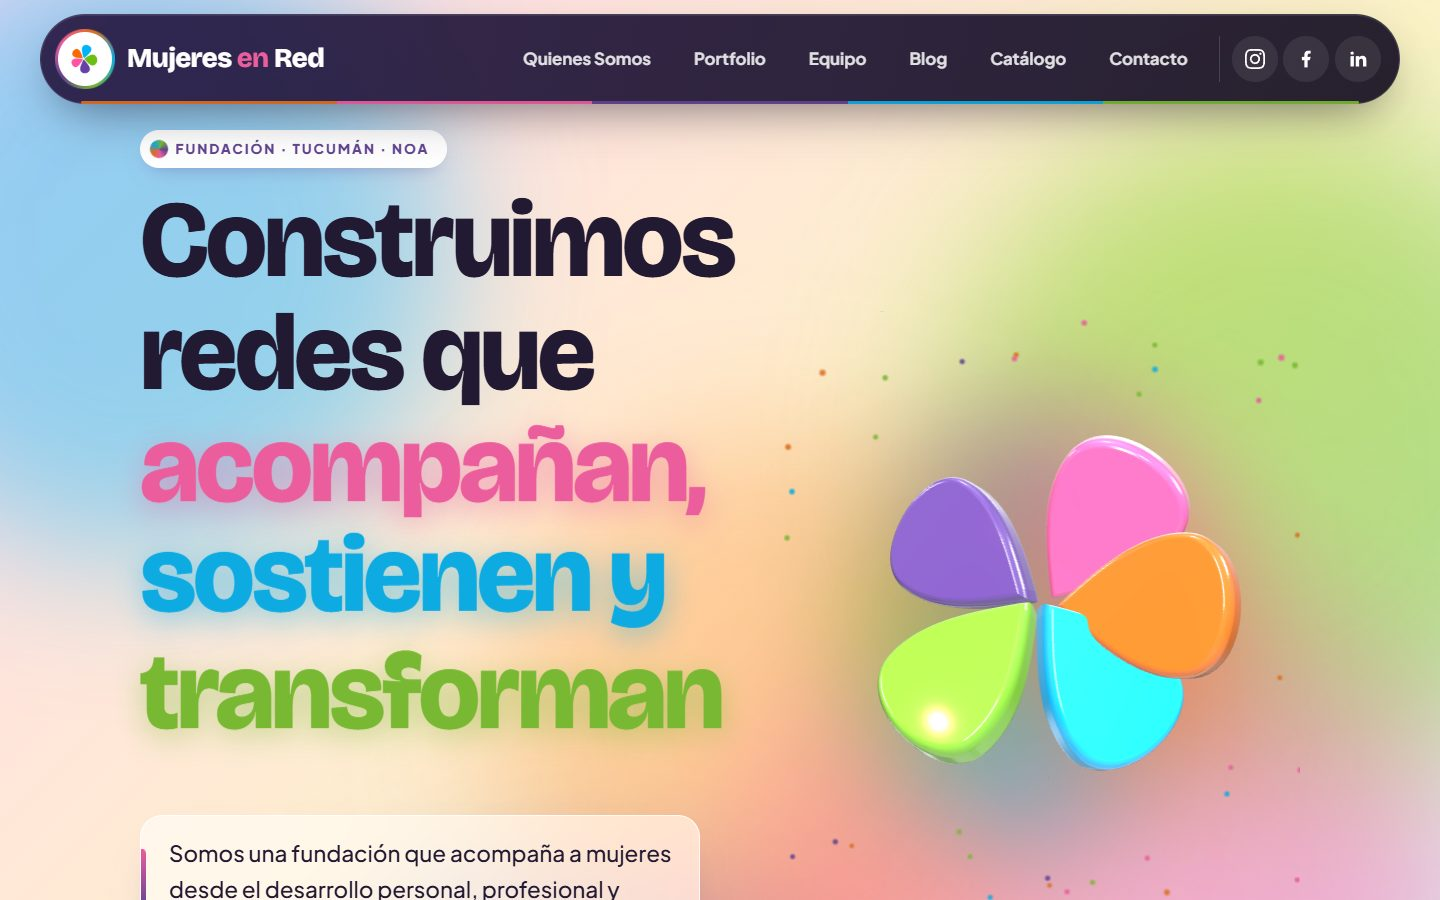
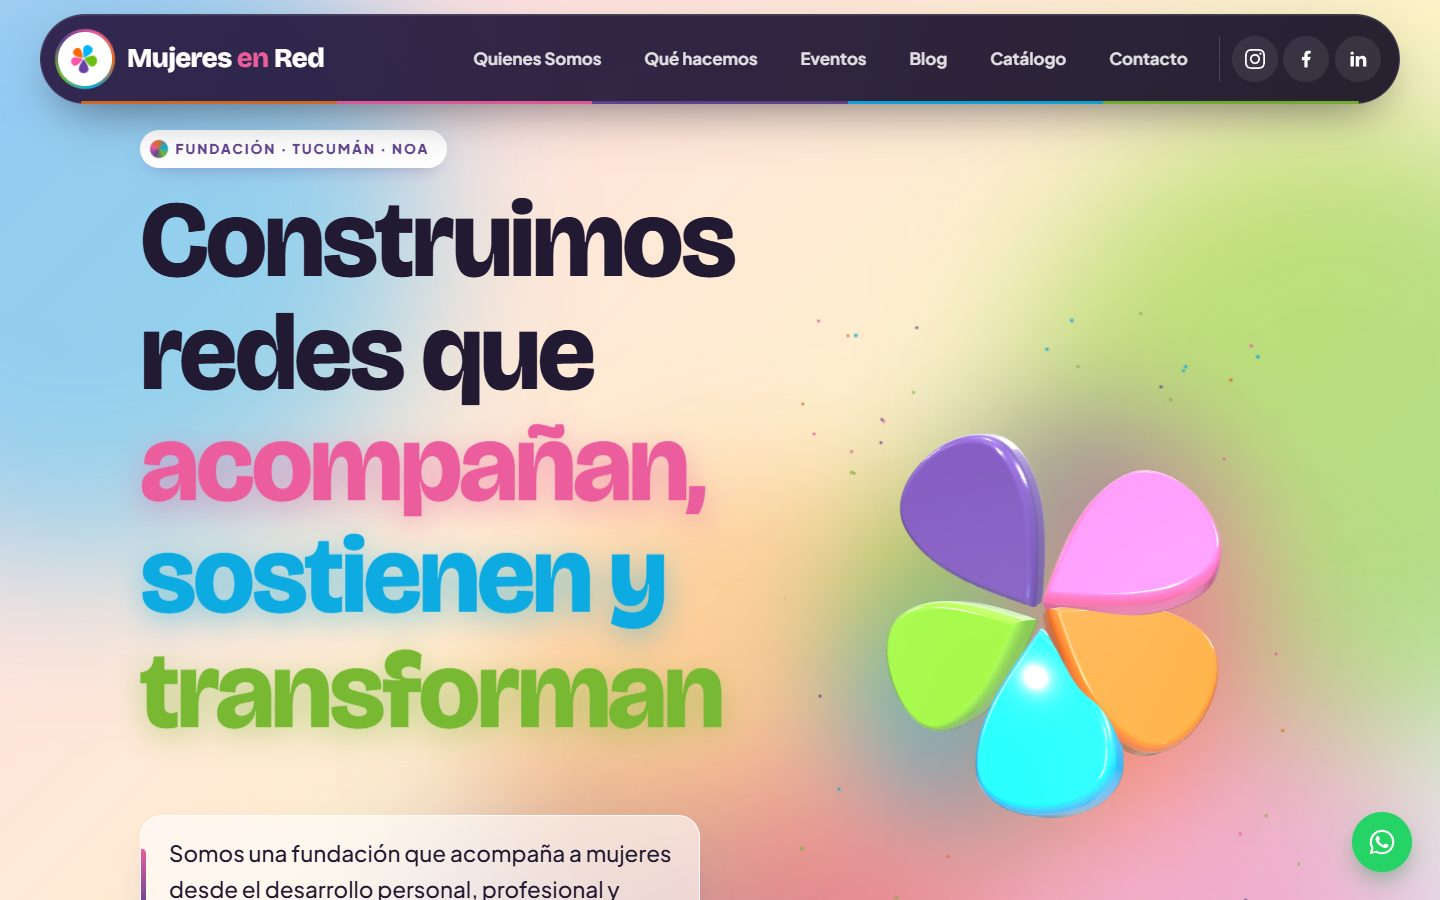
Mujeres en Red publicado: quitar banda en construcción

diff --git a/src/data.js b/src/data.js
@@ -36,8 +36,6 @@ const proyectosBase = [
     categoria: 1,
     cliente: true,
     destacado: true,
-    // el dominio todavía muestra el sitio anterior: sin link en vivo hasta publicar la versión nueva
-    enConstruccion: true,
     imagen: 'Imagenes/proyectos/mujeres-en-red.jpg',
     dominio: 'mujeresenred.com.ar',
     demo: 'https://mujeresenred.com.ar',
@@ -181,7 +179,7 @@ const es = {
     items: {
       mujeres: {
         resumen: 'Nuevo sitio institucional de la Fundación Mujeres en Red, que acompaña a mujeres del NOA en su desarrollo personal, profesional y comunitario.',
-        puntos: ['Diseño y desarrollo completo, con una flor 3D animada', 'El equipo sigue cargando contenido desde WordPress', 'Equipo, blog, catálogo, portfolio y donaciones'],
+        puntos: ['Diseño y desarrollo completo, con una flor 3D animada', 'El equipo sigue cargando contenido desde WordPress', 'Programas, eventos, blog, catálogo y donaciones'],
       },
       syncra: {
         resumen: 'Web del servicio de subtitulado inclusivo y accesibilidad de Mujeres en Red.',
@@ -208,11 +206,11 @@ const es = {
       bajada: 'Rediseño del sitio institucional de una fundación del NOA',
       secciones: [
         ['El contexto', 'La Fundación Mujeres en Red tenía un sitio hecho con una plantilla de WordPress. Necesitaba una imagen más actual y propia, sin perder la forma en que el equipo ya cargaba notas, proyectos y emprendimientos.'],
-        ['Mi rol', 'Como responsable del área de programación, me encargué del diseño y el desarrollo completo del nuevo frontend, y de planificar cómo se va a publicar en el hosting de la fundación.'],
+        ['Mi rol', 'Como responsable del área de programación, me encargué del diseño y el desarrollo completo del nuevo frontend y de su publicación en el hosting de la fundación.'],
         ['La solución', 'Construí el sitio en React con Vite y usé WordPress como "headless": el diseño es nuevo, pero el contenido (blog, portfolio, catálogo y formulario de contacto) sigue saliendo del panel de WordPress que el equipo ya conoce. Sumé una flor 3D animada con Three.js, inspirada en el logo.'],
-        ['Secciones', 'Inicio, Quiénes somos, Equipo, Blog, Catálogo de emprendedoras, Portfolio, Contacto y Donar, con distintos medios de donación (Mercado Pago, QR, transferencia y PayPal).'],
+        ['Secciones', 'Inicio, Quiénes somos, Qué hacemos (programas y proyectos), Eventos, Blog, Catálogo de emprendedoras, Contacto y Donar, con distintos medios de donación (Mercado Pago, QR, transferencia y PayPal).'],
         ['Decisiones técnicas', 'Separé los datos que se editan a mano (equipo, redes, donaciones) de los que vienen de la API, para que mantener el sitio sea simple. Las credenciales de pago quedan solo en el servidor, nunca en el frontend.'],
-        ['Próximo paso', 'Publicar la nueva versión en el dominio e integrar Mercado Pago Checkout Pro para donar directamente desde la web.'],
+        ['Resultado', 'El sitio nuevo ya está publicado en mujeresenred.com.ar. Como próximo paso, se va a integrar Mercado Pago Checkout Pro para donar directamente desde la web.'],
       ],
     },
     malfi: {
@@ -404,7 +402,7 @@ const en = {
     items: {
       mujeres: {
         resumen: 'New institutional website for Fundación Mujeres en Red, a foundation supporting women in northern Argentina in their personal, professional and community growth.',
-        puntos: ['Full design and development, with an animated 3D flower', 'The team keeps publishing content from WordPress', 'Team, blog, catalog, portfolio and donations'],
+        puntos: ['Full design and development, with an animated 3D flower', 'The team keeps publishing content from WordPress', 'Programs, events, blog, catalog and donations'],
       },
       syncra: {
         resumen: "Website for Mujeres en Red's inclusive captioning and accessibility service.",
@@ -431,11 +429,11 @@ const en = {
       bajada: "Redesign of a foundation's institutional website",
       secciones: [
         ['Context', "Fundación Mujeres en Red had a website built on a WordPress theme. They needed a more modern, distinctive look without changing the way the team already published news, projects and the entrepreneurs' catalog."],
-        ['My role', "As head of the foundation's programming area, I handled the full design and development of the new frontend, and planned how it will be deployed to the foundation's hosting."],
+        ['My role', "As head of the foundation's programming area, I handled the full design and development of the new frontend and its deployment to the foundation's hosting."],
         ['The solution', 'I built the site with React and Vite and used WordPress as a headless CMS: the design is brand new, but the content (blog, portfolio, catalog and contact form) still comes from the WordPress panel the team already knows. I added an animated 3D flower with Three.js, inspired by the logo.'],
-        ['Sections', "Home, About us, Team, Blog, Entrepreneurs' catalog, Portfolio, Contact and Donate, with several payment options (Mercado Pago, QR, bank transfer and PayPal)."],
+        ['Sections', "Home, About us, What we do (programs and projects), Events, Blog, Entrepreneurs' catalog, Contact and Donate, with several payment options (Mercado Pago, QR, bank transfer and PayPal)."],
         ['Technical decisions', 'I separated hand-edited data (team, social links, donations) from API data to keep the site easy to maintain. Payment credentials live only on the server, never in the frontend.'],
-        ['Next step', 'Deploy the new version to the domain and integrate Mercado Pago Checkout Pro so people can donate directly from the site.'],
+        ['Outcome', 'The new site is live at mujeresenred.com.ar. The next step is integrating Mercado Pago Checkout Pro so people can donate directly from the site.'],
       ],
     },
     malfi: {

diff --git a/README.md b/README.md
@@ -73,7 +73,7 @@ Este repositorio es mi portfolio: un sitio pensado tanto para **empresas** que b
 
 | | Proyecto | Tipo | Stack |
 |:-:|---|---|---|
-| <img src="public/Imagenes/proyectos/mujeres-en-red.jpg" width="160" alt="Mujeres en Red"> | **Mujeres en Red**<br>Sitio institucional de la fundación · *en construcción*<br>[Código](https://github.com/LuPaz-GH/Mujeres_en_red) | 🏢 Cliente real | React · Vite · Three.js · WordPress API |
+| <img src="public/Imagenes/proyectos/mujeres-en-red.jpg" width="160" alt="Mujeres en Red"> | **Mujeres en Red**<br>Sitio institucional de la fundación<br>[Sitio](https://mujeresenred.com.ar) · [Código](https://github.com/LuPaz-GH/Mujeres_en_red) | 🏢 Cliente real | React · Vite · Three.js · WordPress API |
 | <img src="public/Imagenes/proyectos/syncra.jpg" width="160" alt="Syncra Studios"> | **Syncra Studios**<br>Subtitulado inclusivo y accesibilidad<br>[Sitio](https://syncrastudios.com.ar) · [Código](https://github.com/LuPaz-GH/SYNCRAstudios) | 🏢 Cliente real | React · Vite · CSS |
 | <img src="public/Imagenes/proyectos/malfi.jpg" width="160" alt="Malfi Veterinaria"> | **Malfi Veterinaria**<br>Gestión integral con acceso por rol<br>▶ [Probar demo sin registro](https://malfi-veterinaria.netlify.app/login) · [Código](https://github.com/LuPaz-GH/ProyectoFinal-fullstack) | ⚙ Sistema | React · Node.js · Express · MySQL · JWT |
 | <img src="public/Imagenes/proyectos/cainzo.jpg" width="160" alt="Panificadora Cainzo"> | **Panificadora Cainzo**<br>Productos, ventas y estadísticas<br>[Sitio](https://panaderiacainzo.netlify.app) · [Código](https://github.com/LuPaz-GH/Panaderia_Cainzo_PC) | ⚙ Sistema | React · Node.js · Express · MySQL |
